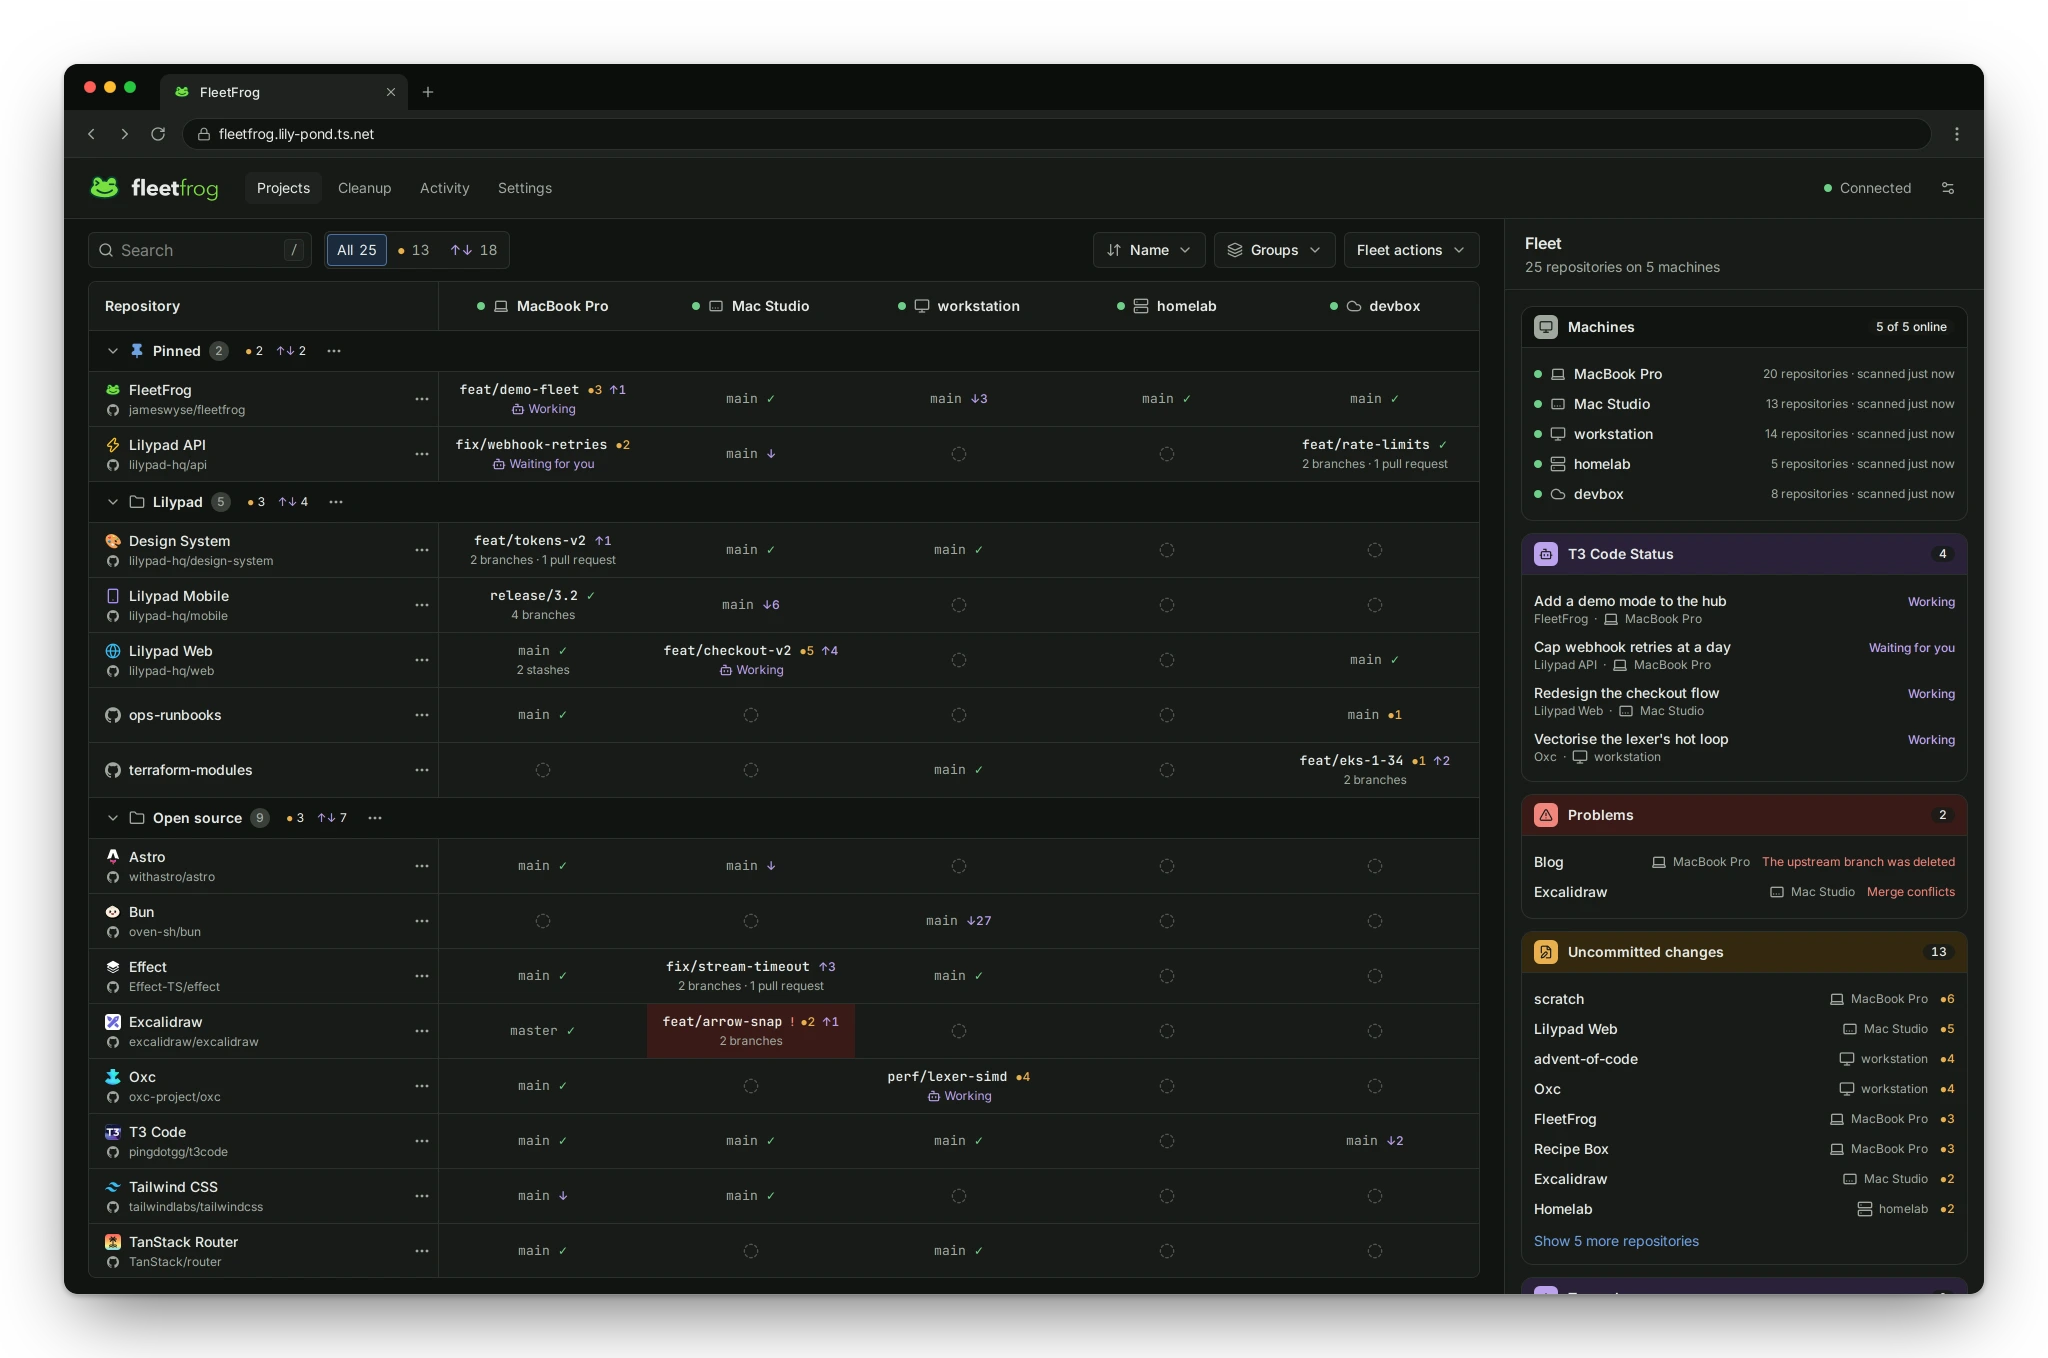
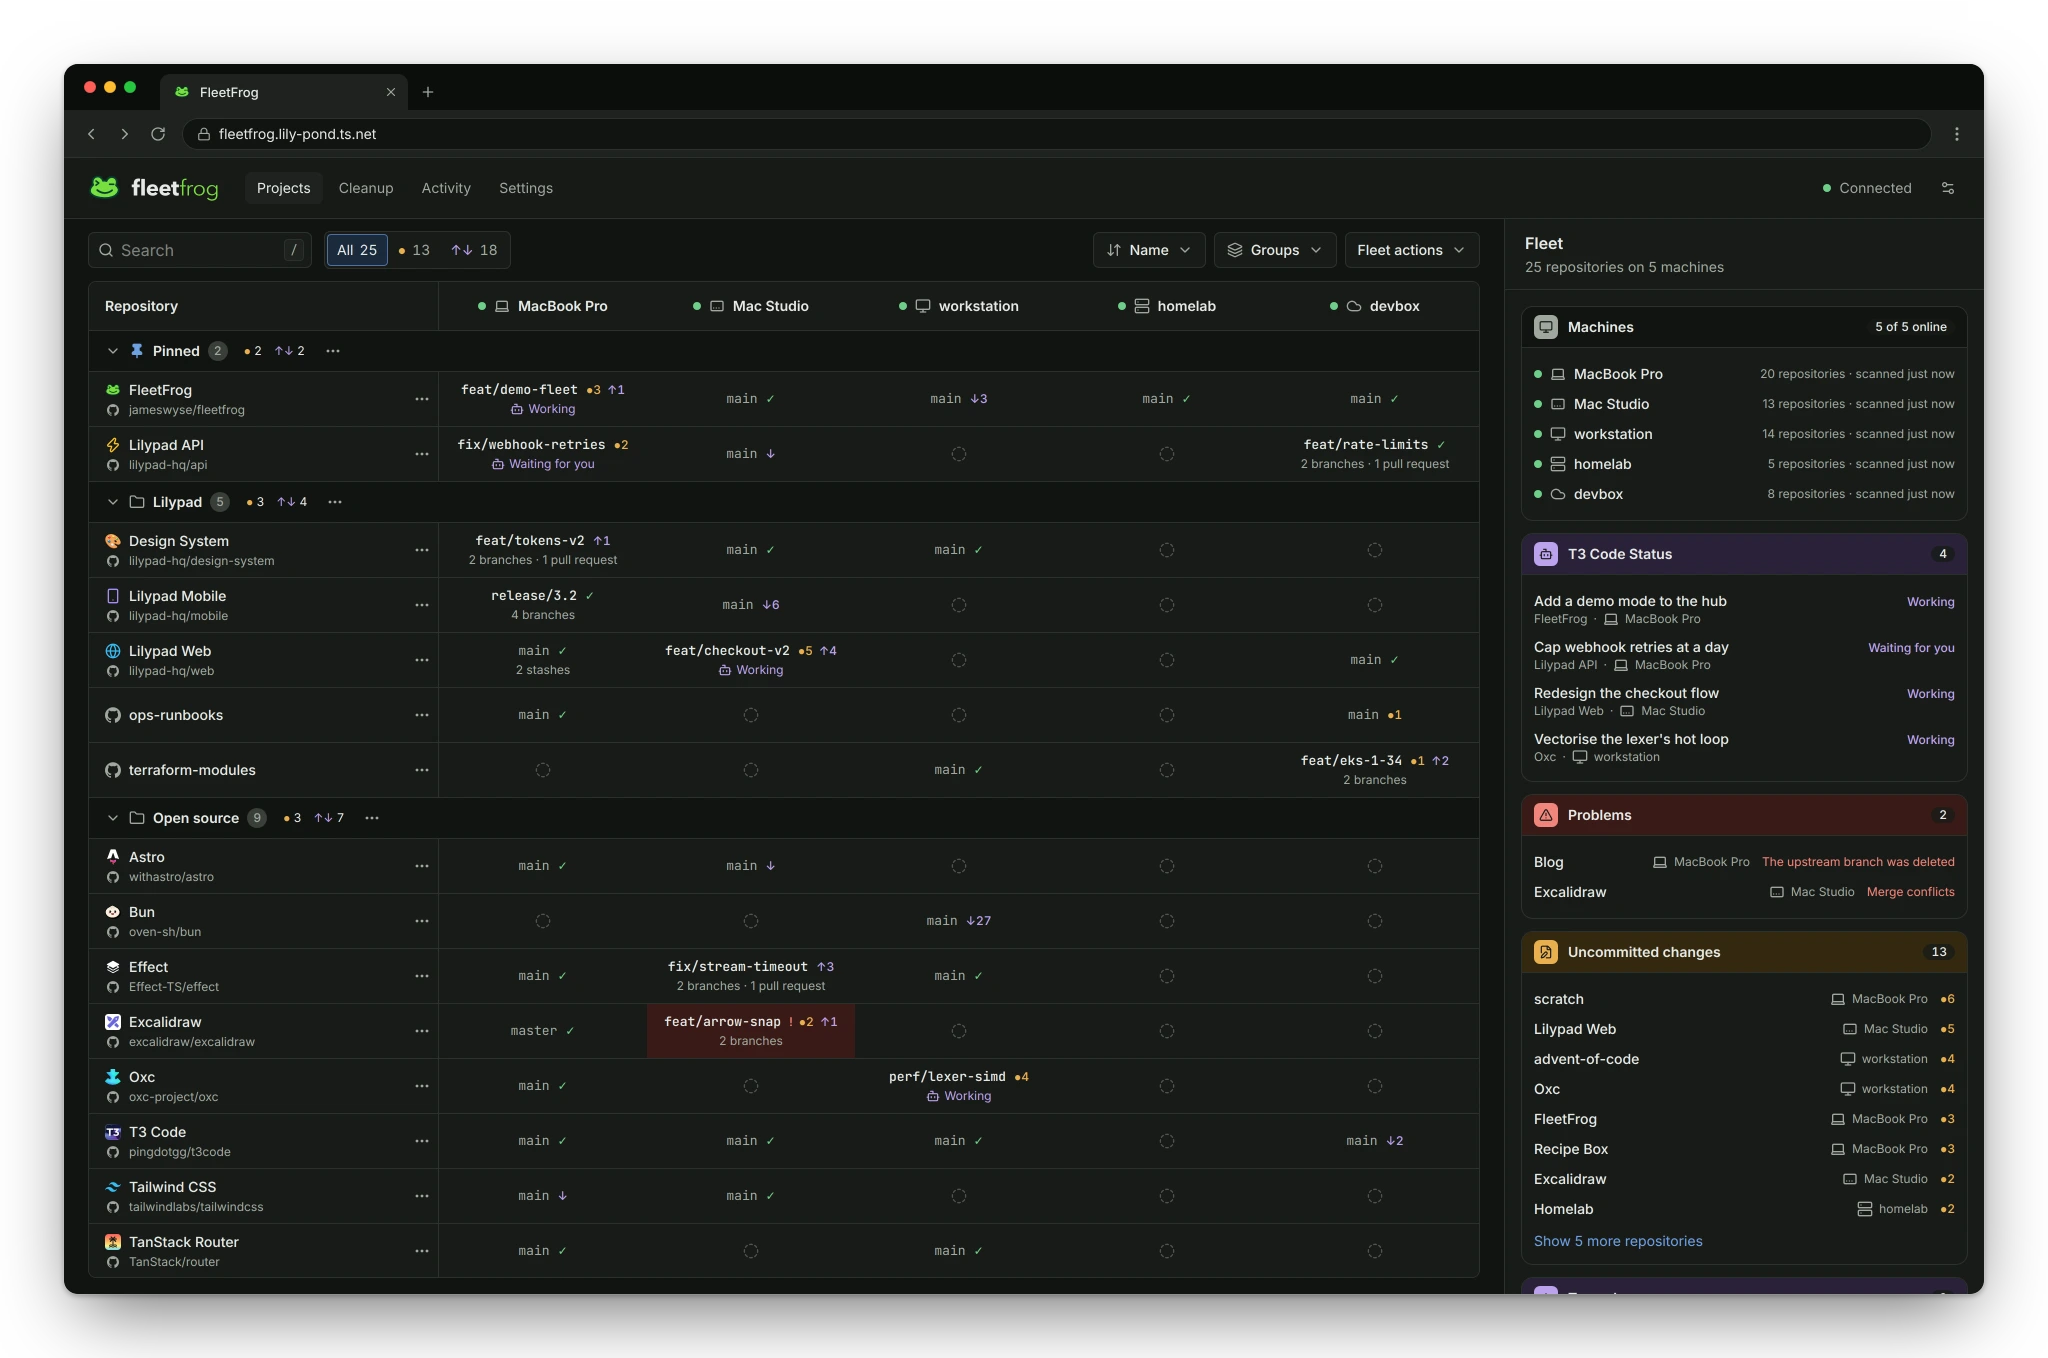
chore: capture screenshots without font hinting
Chromium on Linux hints glyphs to the pixel grid by default, which makes
Inter heavier in places and changes letter spacing from the font's own
metrics. --font-render-hinting=none keeps the glyphs' real shapes and
spacing, as macOS does, and stops the output depending on each machine's
fontconfig hinting settings.

diff --git a/tools/demo/screenshots.ts b/tools/demo/screenshots.ts
@@ -207,7 +207,7 @@ await runCommand(pnpmPath, ["build", "--filter=@fleetfrog/web"], process.env, co
 const hub = await startDemoHub({ signal: controller.signal });
 
 try {
-  const browser = await chromium.launch();
+  const browser = await chromium.launch({ args: ["--font-render-hinting=none"] });
 
   try {
     const encoderPage = await browser.newPage();
